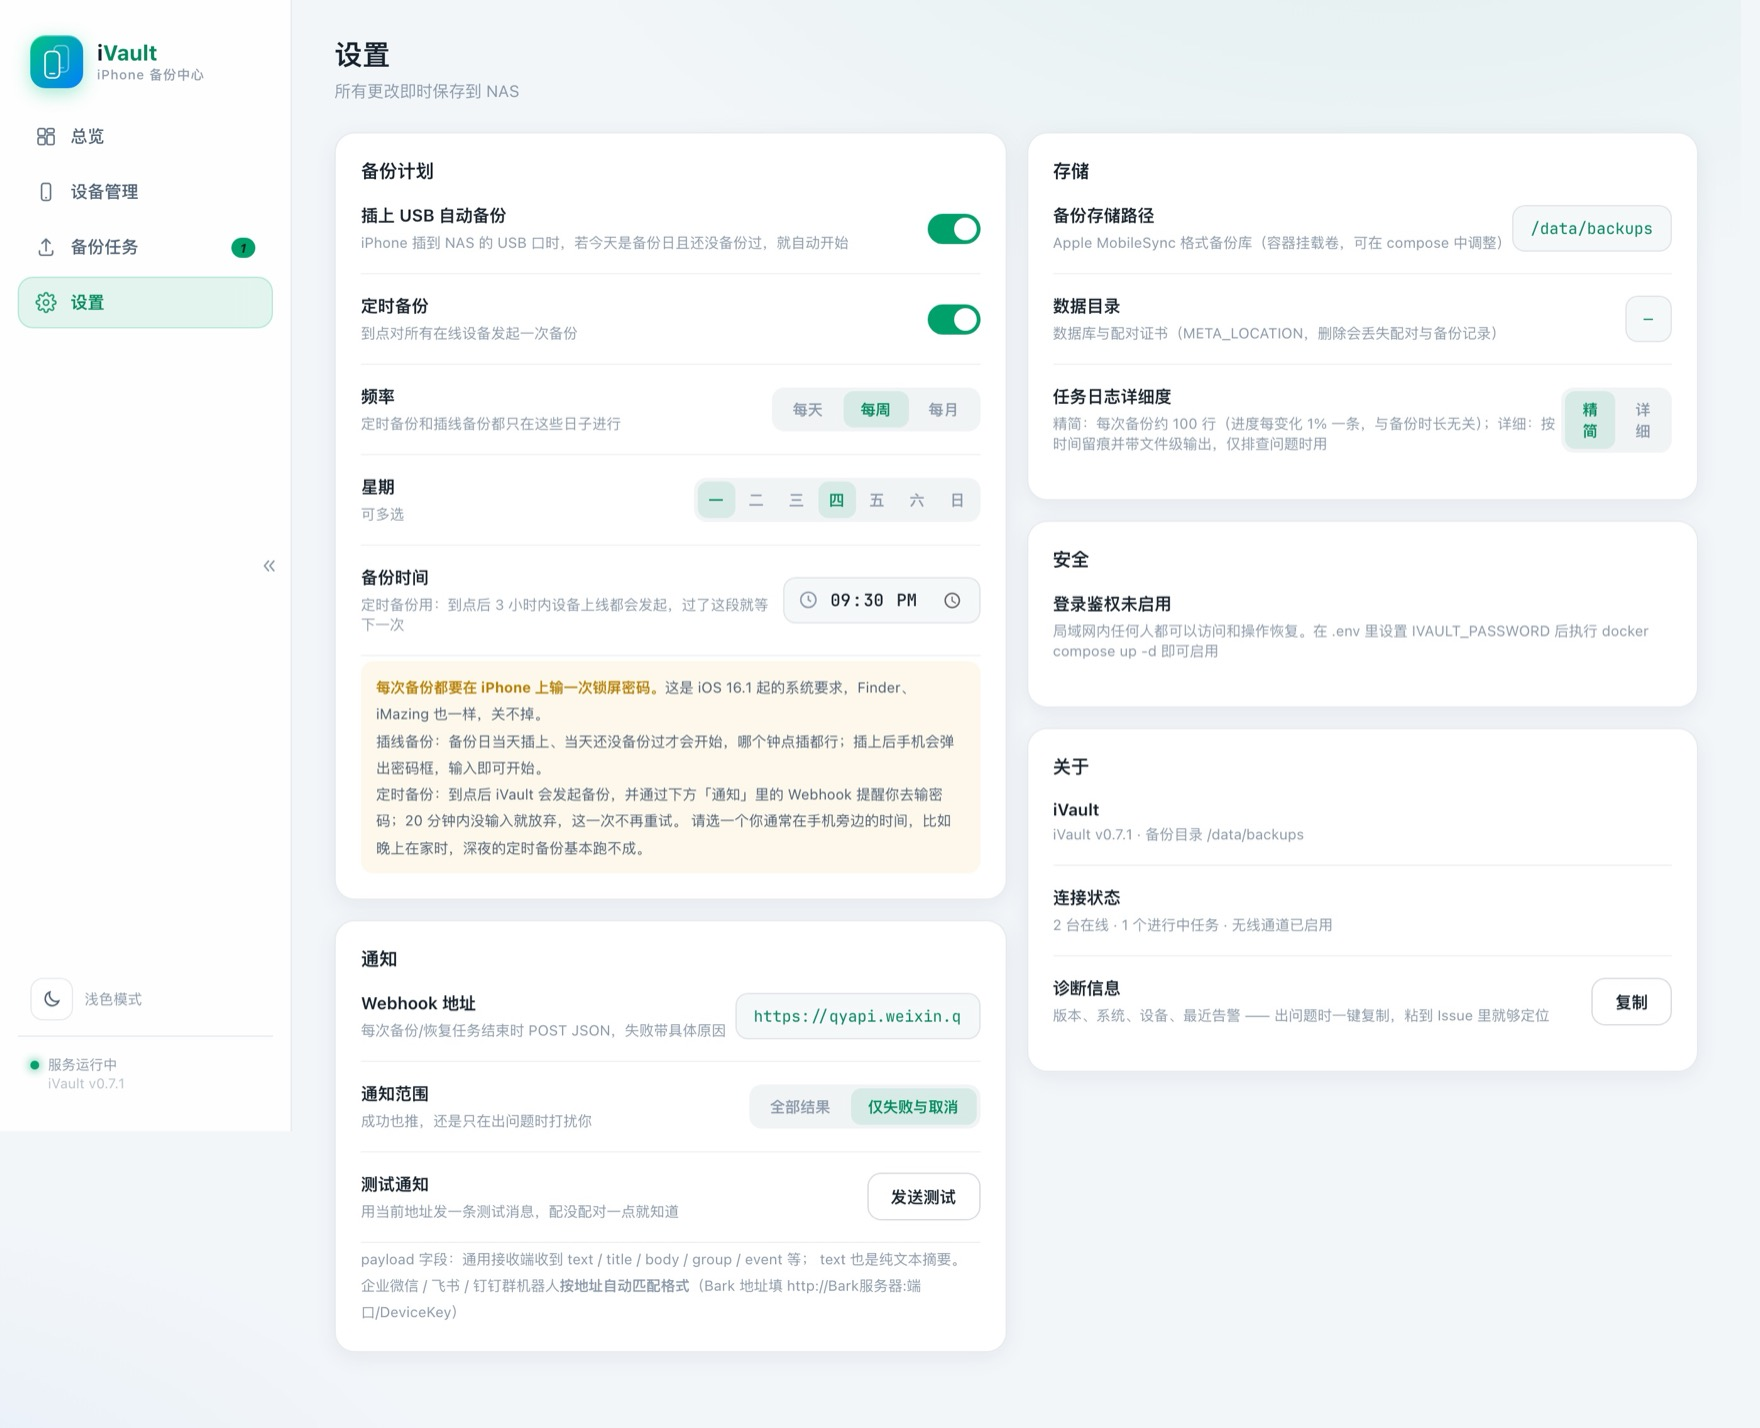
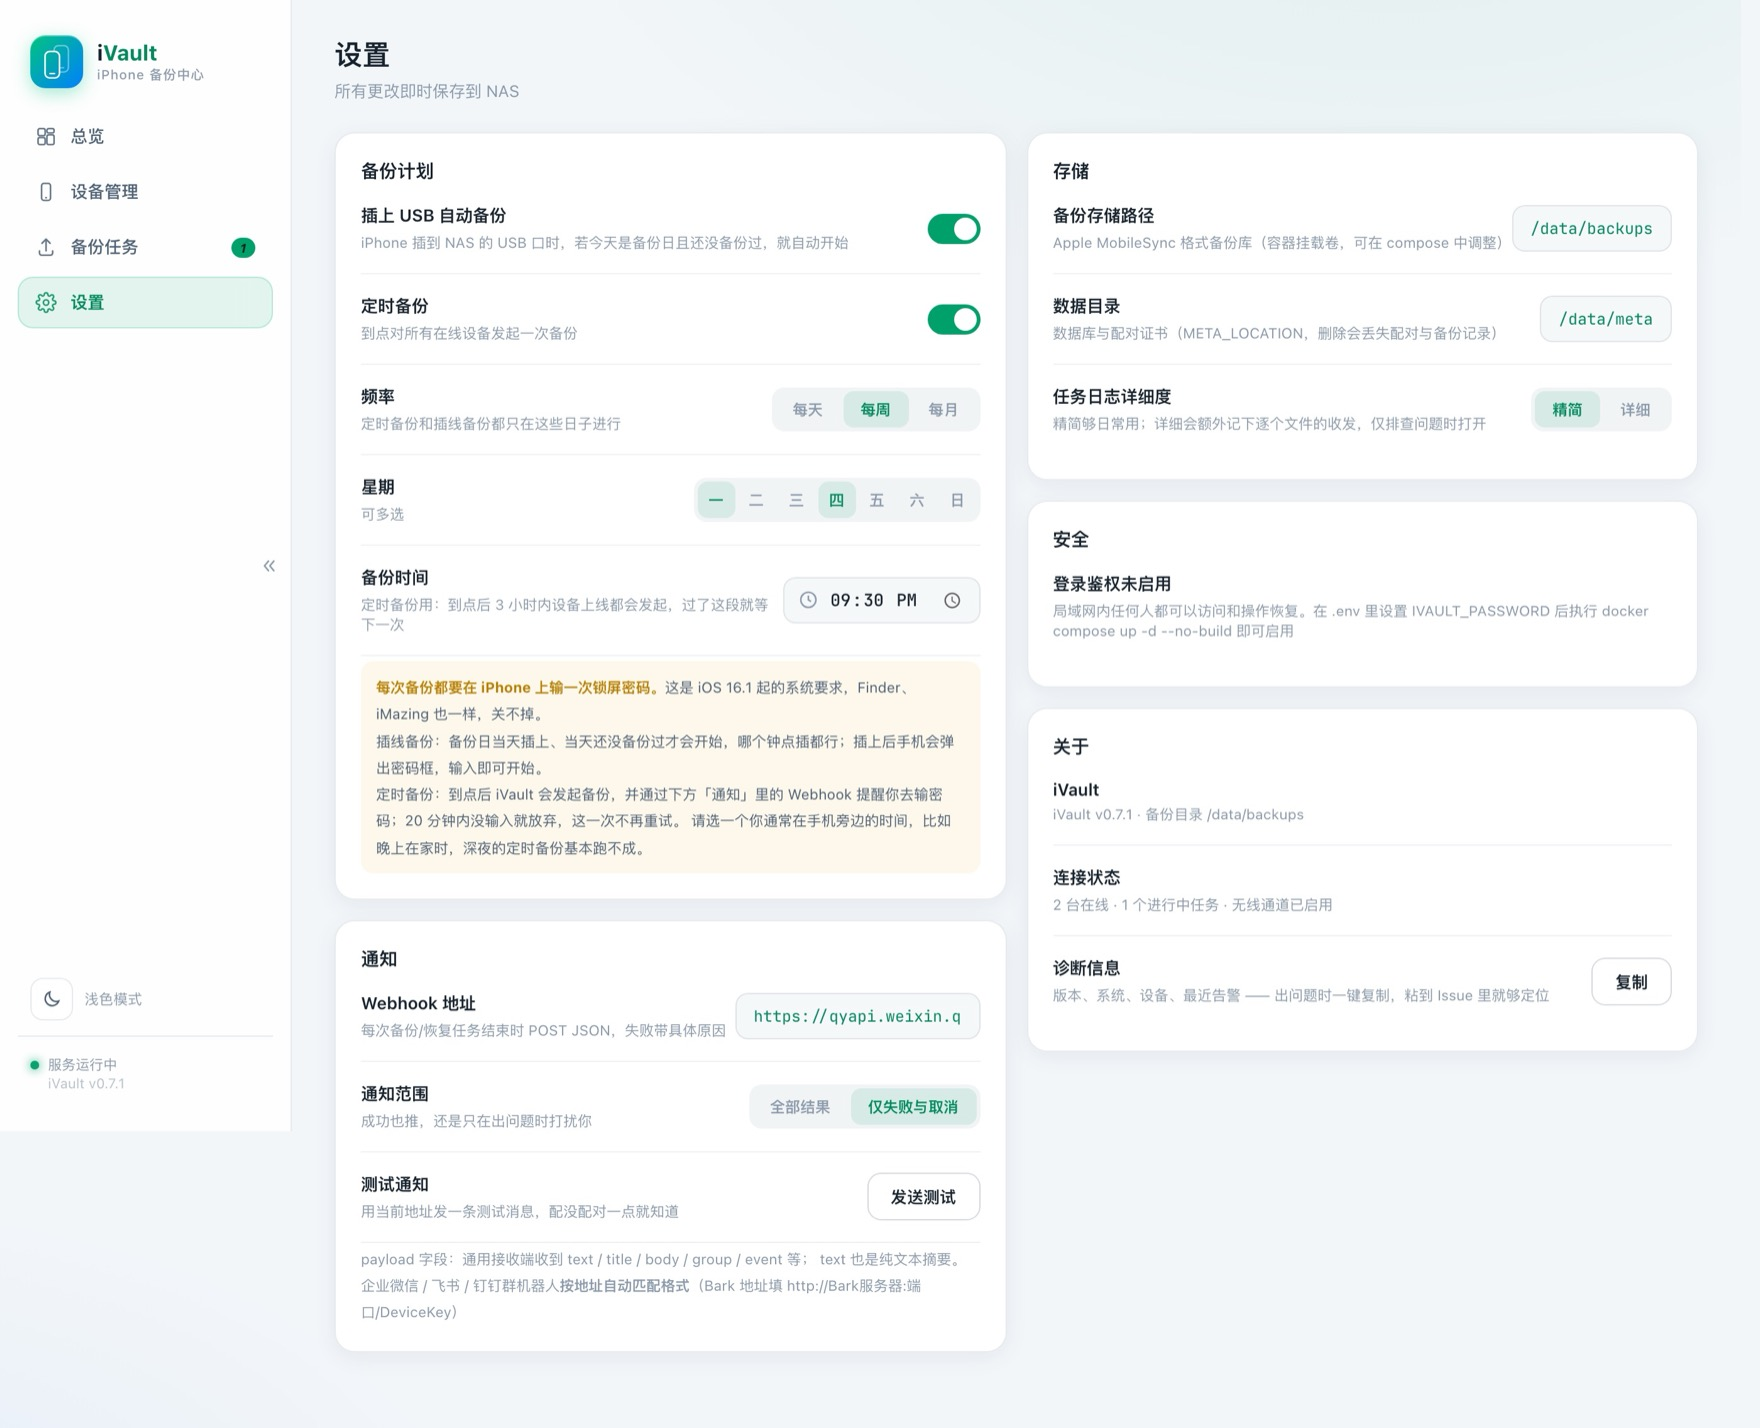
docs(readme): 按最新 UI 修正重拍截图
旧图拍在这些改动之前，和代码对不上：

- 「精简/详细」被挤成竖排（11ed70d 加了 flex-shrink:0 + nowrap）
- 热力图标题「最近 30 天」→「最近 15 周」
- 日志详细度说明改了两轮，最终是「精简够日常用；详细会额外记下逐个文件的收发」
- 安全卡片的启用命令补上 --no-build

同时把预览假数据补上 data_dir（设置页「数据目录」原来显示「—」）；
README 图片 URL 的 ?v= 从 1 提到 2，绕开 GitHub camo 的图片缓存。

diff --git a/README.md b/README.md
@@ -36,8 +36,8 @@
   <!-- 跟随 GitHub 的深浅色自动切图（<picture> + prefers-color-scheme）。
        两个主题各一份文件；?v= 破除 camo 缓存，换图后把数字加一即可 -->
   <picture>
-    <source media="(prefers-color-scheme: dark)" srcset="assets/screenshots/dashboard-dark.jpg?v=1">
-    <img src="assets/screenshots/dashboard-light.jpg?v=1" width="900" alt="iVault 总览：设备状态、备份进度与最近动态">
+    <source media="(prefers-color-scheme: dark)" srcset="assets/screenshots/dashboard-dark.jpg?v=2">
+    <img src="assets/screenshots/dashboard-light.jpg?v=2" width="900" alt="iVault 总览：设备状态、备份进度与最近动态">
   </picture>
 </p>
 
@@ -77,14 +77,14 @@
   <tr>
     <td width="50%">
       <picture>
-        <source media="(prefers-color-scheme: dark)" srcset="assets/screenshots/devices-dark.jpg?v=1">
-        <img src="assets/screenshots/devices-light.jpg?v=1" alt="设备管理">
+        <source media="(prefers-color-scheme: dark)" srcset="assets/screenshots/devices-dark.jpg?v=2">
+        <img src="assets/screenshots/devices-light.jpg?v=2" alt="设备管理">
       </picture>
     </td>
     <td width="50%">
       <picture>
-        <source media="(prefers-color-scheme: dark)" srcset="assets/screenshots/task-dark.jpg?v=1">
-        <img src="assets/screenshots/task-light.jpg?v=1" alt="备份任务">
+        <source media="(prefers-color-scheme: dark)" srcset="assets/screenshots/task-dark.jpg?v=2">
+        <img src="assets/screenshots/task-light.jpg?v=2" alt="备份任务">
       </picture>
     </td>
   </tr>
@@ -95,14 +95,14 @@
   <tr>
     <td width="50%">
       <picture>
-        <source media="(prefers-color-scheme: dark)" srcset="assets/screenshots/settings-dark.jpg?v=1">
-        <img src="assets/screenshots/settings-light.jpg?v=1" alt="设置">
+        <source media="(prefers-color-scheme: dark)" srcset="assets/screenshots/settings-dark.jpg?v=2">
+        <img src="assets/screenshots/settings-light.jpg?v=2" alt="设置">
       </picture>
     </td>
     <td width="50%" align="center">
       <picture>
-        <source media="(prefers-color-scheme: dark)" srcset="assets/screenshots/mobile-dark.jpg?v=1">
-        <img src="assets/screenshots/mobile-light.jpg?v=1" width="290" alt="手机端">
+        <source media="(prefers-color-scheme: dark)" srcset="assets/screenshots/mobile-dark.jpg?v=2">
+        <img src="assets/screenshots/mobile-light.jpg?v=2" width="290" alt="手机端">
       </picture>
     </td>
   </tr>
